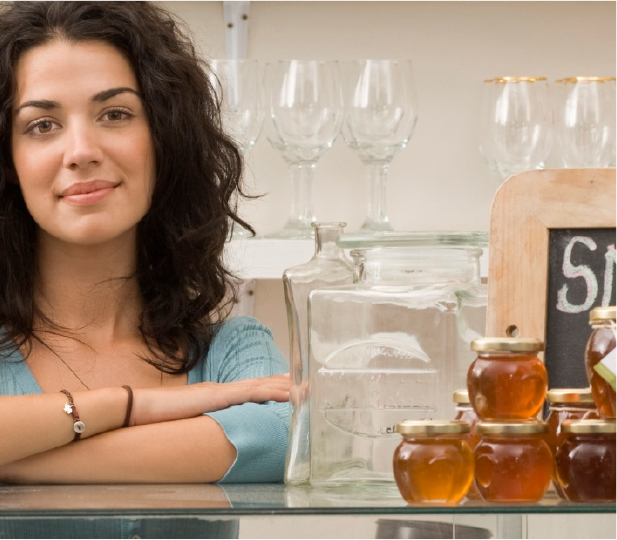
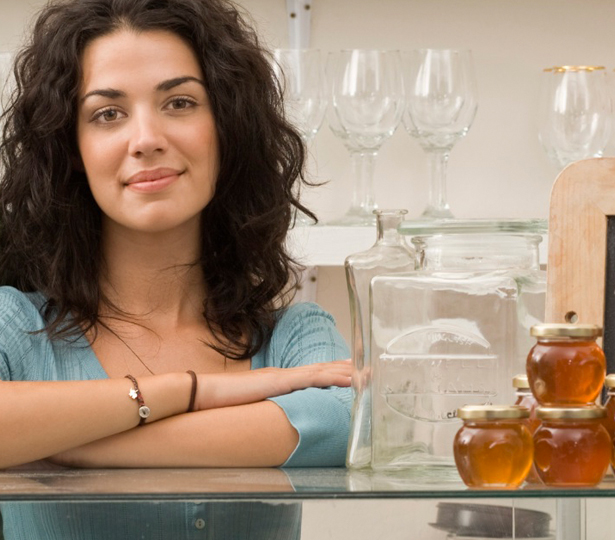
Final commit.

diff --git a/assets/css/style.css b/assets/css/style.css
@@ -137,12 +137,12 @@ p {
 }
 
 .banner-img-1 {
-  background-image: url('../../img/banner-temp.png');
+  background-image: url('../../img/banner-img-1.png');
   background-position-y: -4em;
 }
 
 .banner-img-2 {
-  background-image: url('../../img/banner-temp2.jpg');
+  background-image: url('../../img/banner-img-2.png');
 }
 
 .banner-text {

diff --git a/assets/send_form_email.php b/assets/send_form_email.php
@@ -1,5 +1,7 @@
 <?php
 
+
+
 if (isset($_POST['f_name']) && isset($_POST['f_email']) && isset($_POST['f_phone']) && isset($_POST['f_cnpj']) && isset($_POST['f_sector']) && isset($_POST['f_faturamento']) && isset($_POST['f_valorMedio'])) {
     
     $name = $_POST['f_name'];
